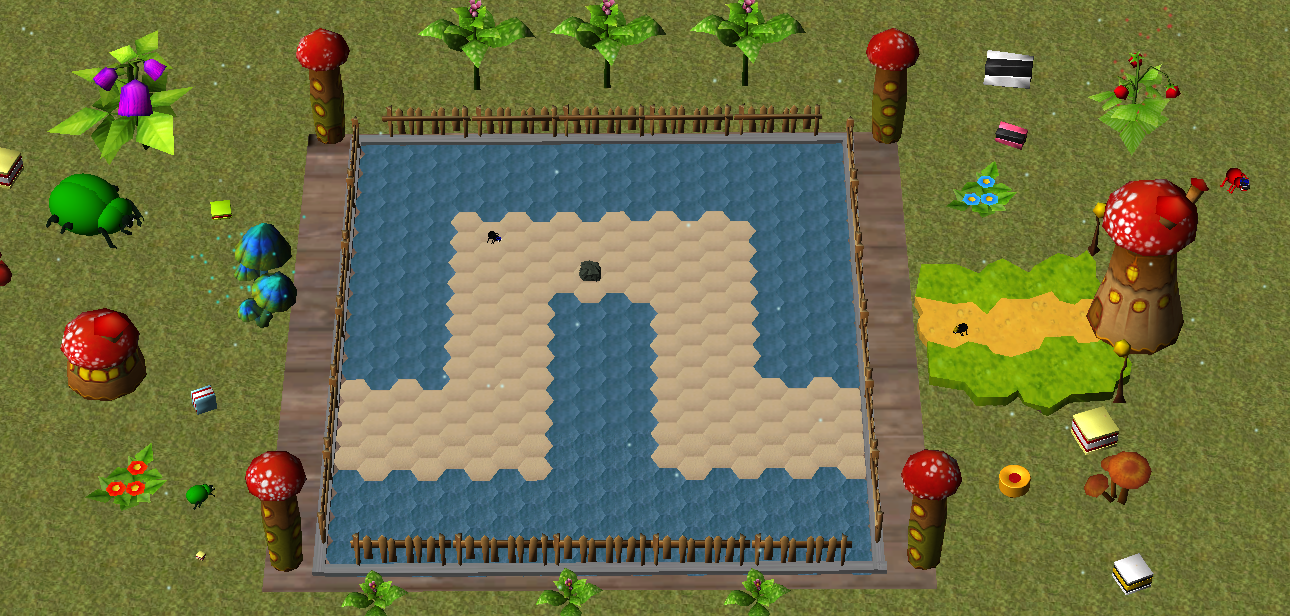
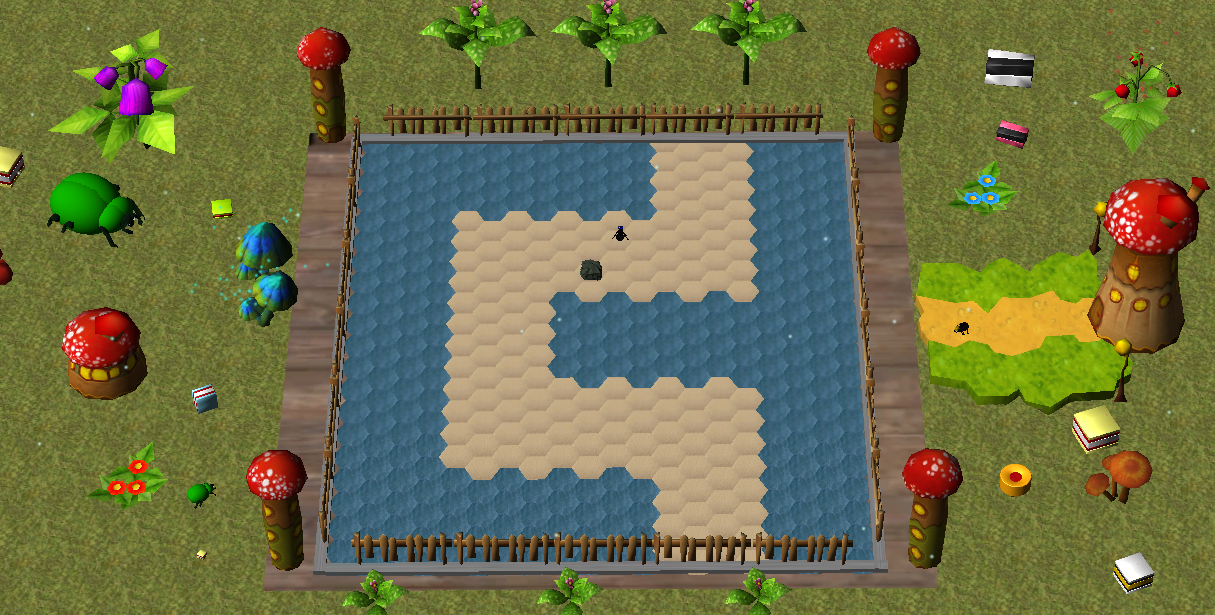
Correction terrain niveau 4 et screen-shots
Correction du terrain de niveau 4 afin de l'avoir "dans le bon sens".
Nouvelles captures d'écrans du jeu;

diff --git a/EvilChild7/Assets/Scripts/Terrains/TerrainManagerScript.cs b/EvilChild7/Assets/Scripts/Terrains/TerrainManagerScript.cs
@@ -5,7 +5,7 @@
 /// </summary>
 /// 
 /// <remarks>
-/// PY Lapersonne - Version 3.3.0
+/// PY Lapersonne - Version 3.4.0
 /// </remarks>
 
 using UnityEngine;
@@ -307,28 +307,28 @@ public class TerrainManagerScript : MonoBehaviour {
 		for ( int x = 0; x < segmentsEnX; x++ ){
 			for ( int z = 0; z < segmentsEnZ; z++ ){
 				pieces[x, z] = CreerPiece(x, z, TypesTerrains.EAU);
-				if ( x >= segmentsEnX/4 && x <= segmentsEnX/3
-				    && z >= segmentsEnZ/4 && z <= segmentsEnZ/3){
+				if ( z >= segmentsEnZ/4 && z <= segmentsEnZ/3
+				    && x >= segmentsEnX/4 && x <= segmentsEnX/3){
 					pieces[x, z] = CreerPiece(x, z, TypesTerrains.SABLE);
 				}
-				if ( x >= 2*segmentsEnX/3 && x <= 3*segmentsEnX/4
-				    && z <= segmentsEnZ/3){
+				if ( z >= 2*segmentsEnZ/3 && z <= 3*segmentsEnZ/4
+				    && x <= segmentsEnX/3){
 					pieces[x, z] = CreerPiece(x, z, TypesTerrains.SABLE);
 				}
-				if ( x >= segmentsEnX/3 && x <= 2*segmentsEnX/3
-				    && z >= segmentsEnZ/4 && z <= segmentsEnZ/3){
+				if ( z >= segmentsEnZ/3 && z <= 2*segmentsEnZ/3
+				    && x >= segmentsEnX/4 && x <= segmentsEnX/3){
 					pieces[x, z] = CreerPiece(x, z, TypesTerrains.SABLE);
 				}
-				if ( x >= segmentsEnX/4 && x <= segmentsEnX/3
-				    && z >= segmentsEnZ/3 && z <= 3*segmentsEnZ/4){
+				if ( z >= segmentsEnZ/4 && z <= segmentsEnZ/3
+				    && x >= segmentsEnX/3 && x <= 3*segmentsEnX/4){
 					pieces[x, z] = CreerPiece(x, z, TypesTerrains.SABLE);
 				}
-				if ( x >= segmentsEnX/3 && x <= 3*segmentsEnX/4
-				    && z >= 2*segmentsEnZ/3 && z <= 3*segmentsEnZ/4){
+				if ( z >= segmentsEnZ/3 && z <= 3*segmentsEnZ/4
+				    && x >= 2*segmentsEnX/3 && x <= 3*segmentsEnX/4){
 					pieces[x, z] = CreerPiece(x, z, TypesTerrains.SABLE);
 				}
-				if ( x >= 2*segmentsEnX/3 && x <= 3*segmentsEnX/4
-				    && z >= 3*segmentsEnZ/4){
+				if ( z >= 2*segmentsEnZ/3 && z <= 3*segmentsEnZ/4
+				    && x >= 3*segmentsEnX/4){
 					pieces[x, z] = CreerPiece(x, z, TypesTerrains.SABLE);
 				}
 				pieces[x, z].gameObject.transform.position = new Vector3(x * (taillePiece * tailleHexagone.x), 0f, (z * (taillePiece * tailleHexagone.z) * (.75f)));
